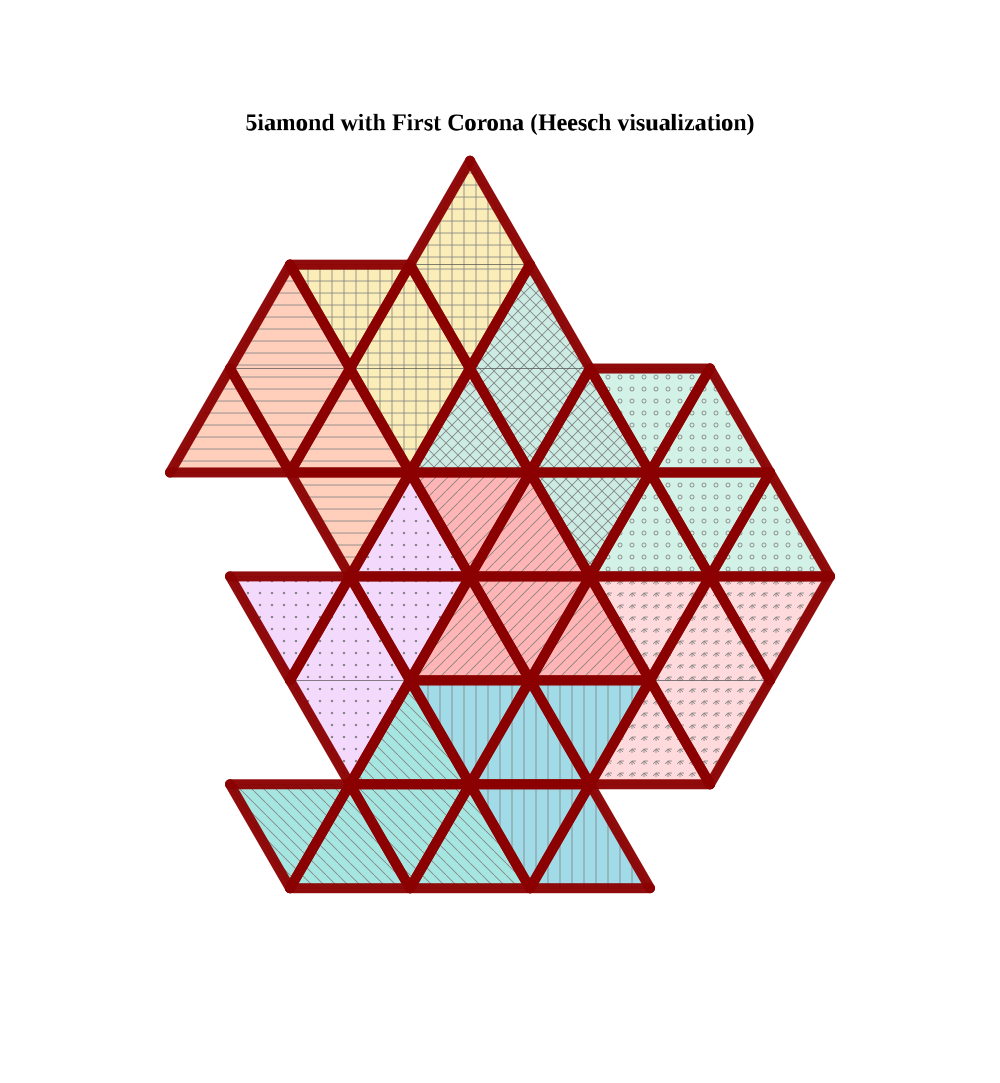
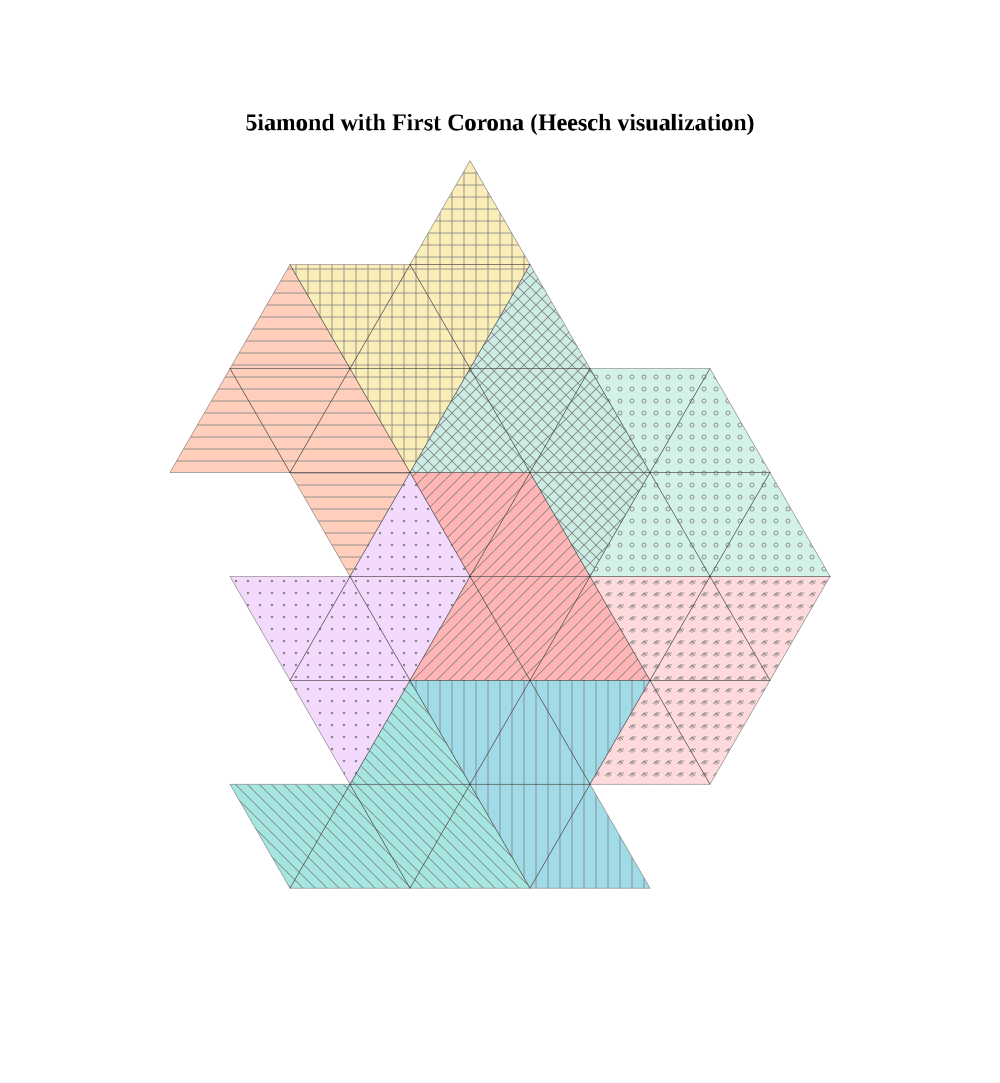
Fix perimeter edge detection to work in grid coordinates

Changed region(s): [[0.155, 0.1828, 0.837, 0.8227], [0.434, 0.1524, 0.496, 0.2133], [0.217, 0.3047, 0.248, 0.3657]]

diff --git a/test_5iamond.py b/test_5iamond.py
@@ -92,27 +92,70 @@ def get_triangle_points(x, y):
         ]
     return points
 
-def get_triangle_edges(x, y):
-    """Get the three edges of a triangle as tuples of (point1, point2)."""
-    points = get_triangle_points(x, y)
+def get_triangle_edges_grid(x, y):
+    """Get the three edges of a triangle in GRID coordinates.
+    
+    Each triangle has 3 neighbors. An edge is shared if the neighbor exists.
+    For iamond grids, adjacent triangles share edges based on these rules:
+    - If x%3==0 and y%3==0 (upward triangle), neighbors are at relative positions
+    - Otherwise (downward triangle), different neighbor positions
+    
+    We return edges as pairs of grid coordinates (sorted for canonical form).
+    """
+    # In iamond coordinates, each triangle has up to 3 neighbors
+    # We define edges by the pair of triangles they separate
+    # An edge can be identified by the two triangle coordinates it touches
+    
+    # For simplicity, define each edge by computing which grid cells share it
+    # In the triangular grid with our coordinate system:
+    # - Upward triangles (sum(x,y) divisible by 3): point up
+    # - Downward triangles (sum(x,y) not divisible by 3): point down
+    
+    # Actually, let's use a different approach: represent each edge by its endpoints
+    # in terms of the triangular lattice
+    
+    # Each triangle in the grid can be adjacent to 3 others
+    # For coordinates (x,y), the three potential neighbors are:
+    neighbors = [
+        (x+1, y),   # right neighbor
+        (x, y+1),   # up-right neighbor  
+        (x-1, y+1), # up-left neighbor
+    ]
+    
+    # Create edge identifiers - use sorted tuple of the two triangle coords
     edges = []
-    for i in range(3):
-        p1 = points[i]
-        p2 = points[(i + 1) % 3]
-        edge = tuple(sorted([p1, p2]))
+    for nx, ny in neighbors:
+        edge = tuple(sorted([(x, y), (nx, ny)]))
         edges.append(edge)
+    
     return edges
 
 def find_perimeter_edges(triangle_coords):
-    """Find the perimeter edges of a set of triangles."""
+    """Find the perimeter edges of a set of triangles by counting edge occurrences.
+    
+    An edge appears twice if it's internal (shared by two triangles in the set).
+    An edge appears once if it's on the perimeter.
+    """
     edge_count = defaultdict(int)
     
-    for corona, coord in triangle_coords:
-        edges = get_triangle_edges(coord[0], coord[1])
-        for edge in edges:
-            edge_count[edge] += 1
+    # Convert to set for fast lookup
+    coord_set = set(c for corona, c in triangle_coords)
     
-    perimeter = [edge for edge, count in edge_count.items() if count == 1]
+    for corona, coord in triangle_coords:
+        edges = get_triangle_edges_grid(coord[0], coord[1])
+        for edge in edges:
+            # An edge is internal only if BOTH triangles are in our set
+            tri1, tri2 = edge
+            if tri1 in coord_set and tri2 in coord_set:
+                # Both triangles exist, so this is an internal edge
+                edge_count[edge] += 1
+            elif tri1 == coord:
+                # Only tri1 (our current triangle) is in the set, so edge is on perimeter
+                # Store which side of the edge to draw
+                edge_count[edge] = 1
+    
+    # Perimeter edges are those that appear exactly once
+    perimeter = [(edge, coord_set) for edge, count in edge_count.items() if count == 1]
     return perimeter
 
 # Generate SVG
@@ -215,16 +258,48 @@ def generate_svg():
                 f'<polygon points="{points_str}" fill="url(#{pattern_id})" stroke="black" stroke-width="0.015" opacity="0.5"/>'
             )
     
-    # Draw THICK red outlines around each complete iamond
-    for corona, transform, triangles in iamond_copies:
+    # Draw THICK red outlines around each complete iamond perimeter
+    for iamond_idx, (corona, transform, triangles) in enumerate(iamond_copies):
         perimeter_edges = find_perimeter_edges(triangles)
         
-        for edge in perimeter_edges:
-            p1, p2 = edge
-            svg_lines.append(
-                f'<line x1="{p1[0]}" y1="{p1[1]}" x2="{p2[0]}" y2="{p2[1]}" '
-                f'stroke="darkred" stroke-width="0.25" opacity="0.95" stroke-linecap="round"/>'
-            )
+        # Convert grid edges to cartesian line segments
+        for edge_data in perimeter_edges:
+            edge, coord_set = edge_data
+            tri1, tri2 = edge
+            
+            # Determine which triangle is in our set and which is outside
+            if tri1 in coord_set:
+                our_tri = tri1
+                other_tri = tri2
+            else:
+                our_tri = tri2
+                other_tri = tri1
+            
+            # Get the triangle vertices for our triangle
+            our_points = get_triangle_points(our_tri[0], our_tri[1])
+            
+            # Get the triangle vertices for the other triangle (even if it doesn't exist)
+            other_points = get_triangle_points(other_tri[0], other_tri[1])
+            
+            # Find the shared edge - the two vertices that are common
+            # Due to floating point, we need to find close matches
+            tolerance = 0.01
+            shared_vertices = []
+            for p1 in our_points:
+                for p2 in other_points:
+                    dist = math.sqrt((p1[0]-p2[0])**2 + (p1[1]-p2[1])**2)
+                    if dist < tolerance:
+                        shared_vertices.append(p1)
+                        break
+            
+            if len(shared_vertices) == 2:
+                # Draw the shared edge
+                p1, p2 = shared_vertices
+                svg_lines.append(
+                    f'<line x1="{p1[0]}" y1="{p1[1]}" x2="{p2[0]}" y2="{p2[1]}" '
+                    f'stroke="darkred" stroke-width="0.25" opacity="0.95" stroke-linecap="round"/>'
+                )
+    
     
     # Add title
     svg_lines.append(f'<text x="{(max_x + min_x)/2}" y="{min_y - 0.5}" font-size="0.6" fill="black" text-anchor="middle" font-weight="bold">5iamond with First Corona (Heesch visualization)</text>')
